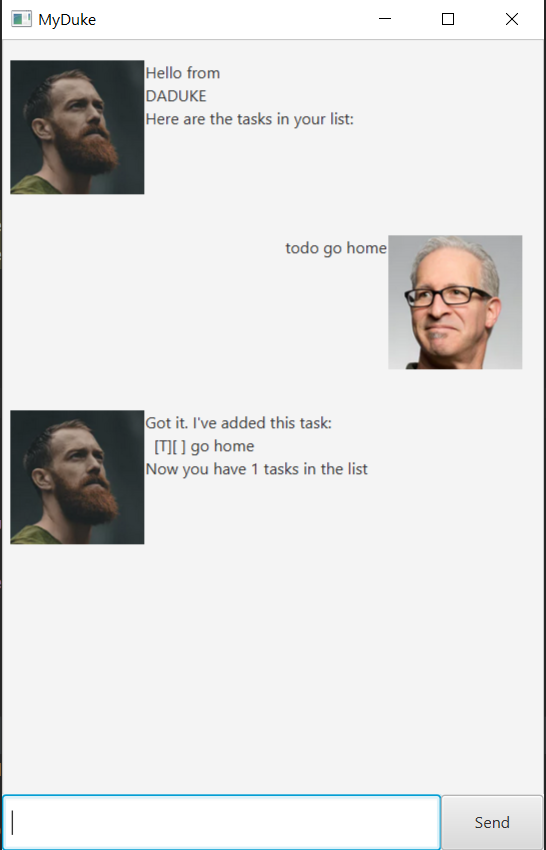
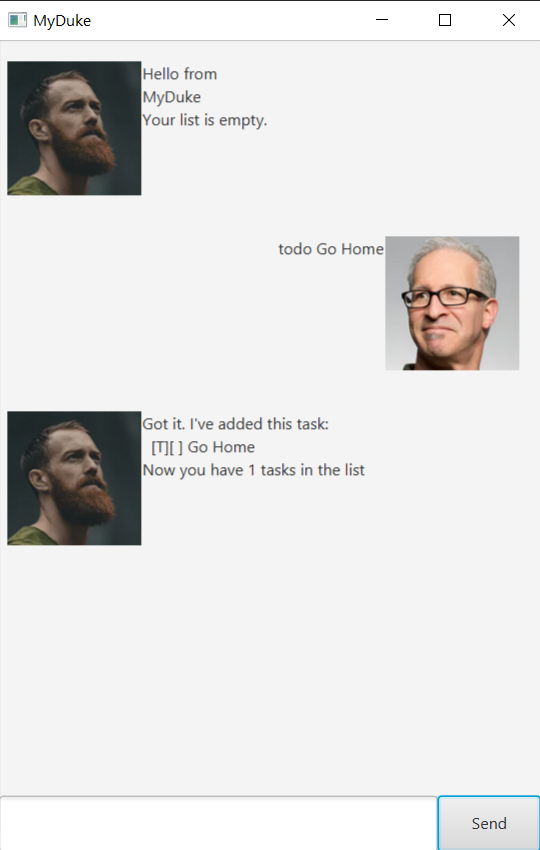
Update User Guide

diff --git a/src/main/java/duke/MainWindow.java b/src/main/java/duke/MainWindow.java
@@ -35,7 +35,7 @@ public class MainWindow extends AnchorPane {
     }
 
     public void showWelcome() {
-        String logo = "DADUKE";
+        String logo = "MyDuke";
         String welcome = "Hello from\n" + logo + "\n" + duke.getList();
         dialogContainer.getChildren().addAll(
                 DialogBox.getDukeDialog(welcome, dukeImage)

diff --git a/docs/README.md b/docs/README.md
@@ -1,6 +1,6 @@
 # User Guide: MyDuke
 
-DADUKE is a **desktop app that helps users keep track of their tasks, optimised for use via a Control Line Interface** (CLI).
+MyDuke is a **desktop app that helps users keep track of their tasks, optimised for use via a Control Line Interface** (CLI).
 
 ## Table of Content
 
